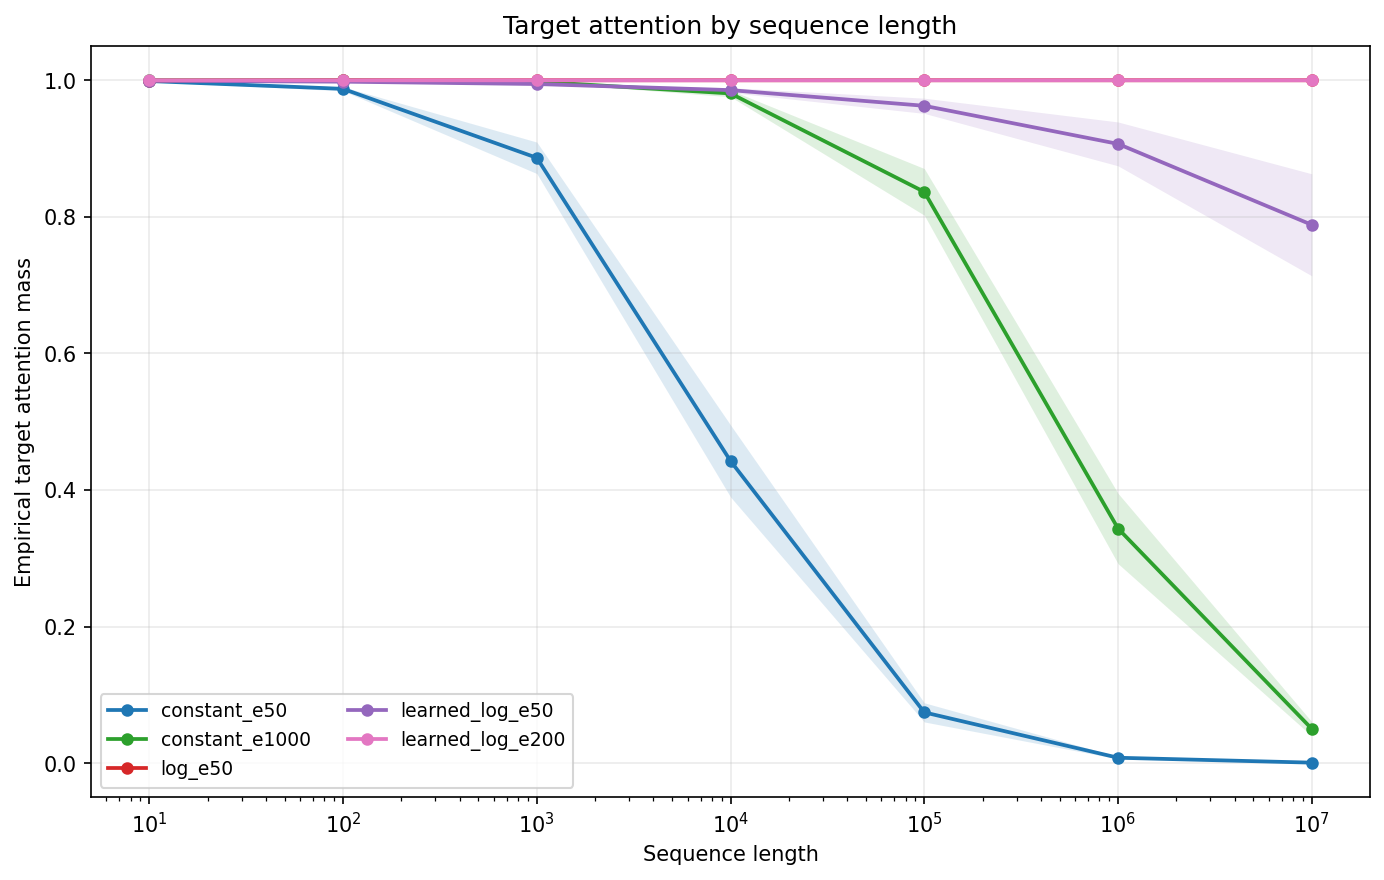
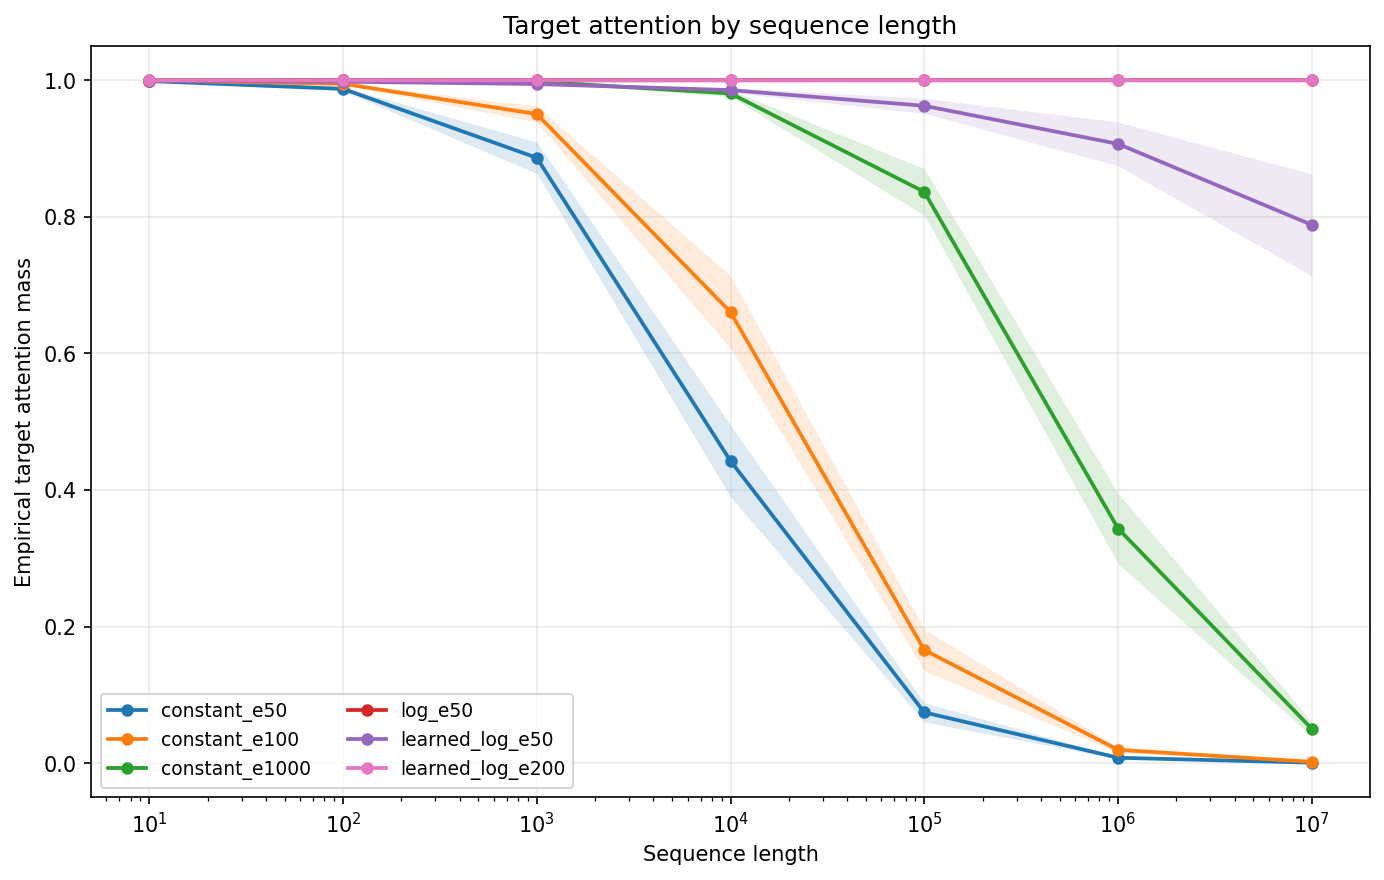
Edit results section

diff --git a/infinite_generalization/documents/FINAL_REPORT.md b/infinite_generalization/documents/FINAL_REPORT.md
@@ -351,12 +351,12 @@ figures below.
 
 ## Results
 
-Negative examples are classified correctly in every analyzed run and length. This is expected: a negative sequence contains only non-target values, so the attention output remains in the non-target direction regardless of how attention is distributed over positions. The length-generalization failure is therefore a positive-example failure: the target mass in positive examples can dilute until the classifier no longer detects the target.
+In this task, length generalization is decided entirely by the positive examples. A negative sequence contains only non-target values, so the attention output stays in the non-target direction however attention is spread across positions, and negatives are classified correctly in every analyzed run at every length. The difficulty lives in the positive examples: the target mass $p_t$ can dilute with length until the classifier no longer detects the target. Table 1 reports each run at $10^7$, and Figures 1 and 2 trace both quantities across length.
 
 **Table 1:** Main results at evaluation length $10^7$, as means over five seeds
-(± one standard deviation). The Target attention column is the target mass $p_t$.
+(± one standard deviation). Negative accuracy is 100% in every run.
 
-| Run | Steps | $\Delta$ | $c$ | $c\Delta$ | Target attention | Positive logit | Positive accuracy |
+| Run | Steps | $\Delta$ | $c$ | $c\Delta$ | $p_t$ | Positive logit | Positive accuracy |
 |---|---:|---:|---:|---:|---:|---:|---:|
 | `constant_e50` | 1600 | 9.0 ± 0.2 | n/a | n/a | 0.001 | -3.3 ± 0.1 | 0% |
 | `constant_e100` | 3200 | 9.9 ± 0.2 | n/a | n/a | 0.002 | -4.5 ± 0.1 | 0% |
@@ -370,25 +370,25 @@ Negative examples are classified correctly in every analyzed run and length. Thi
 
 
 ![Target attention by length](./figures/final_report_target_attention_by_length.png)
-**Figure 1:** Target attention mass versus sequence length for five representative runs (mean over five seeds; shaded bands ±1 s.d.).
+**Figure 1:** Target attention mass versus sequence length for six representative runs (mean over five seeds; shaded bands ±1 s.d.).
 
 
 ![Positive logit by length](./figures/final_report_positive_logit_by_length.png)
-**Figure 2:** Positive logit versus sequence length for the same five runs (mean over five seeds; shaded bands ±1 s.d.; dashed line marks the logit-0 decision boundary).
+**Figure 2:** Positive logit versus sequence length for the same six runs (mean over five seeds; shaded bands ±1 s.d.; dashed line marks the logit-0 decision boundary).
 
 ### Constant Scaling
 
-Constant scaling uses $\alpha=1$, for which Background already gives $p_t(n)\to0$ at any fixed $\Delta$. Empirically, more training increases $\Delta$, moving the failure point outward without changing this asymptotic regime: positive accuracy at $10^7$ is 0 for all three budgets in every seed. The e1000 run makes this concrete: it learns a much larger margin than e50 or e100 and keeps more target attention at $10^7$, but its positive logit is still negative there, so the theory predicts eventual failure for any finite fixed margin.
+Constant scaling uses $\alpha=1$. At any fixed $\Delta$ this gives $p_t(n)\to0$. Empirically, more training increases $\Delta$, moving the failure point outward without changing this asymptotic regime: positive accuracy at $10^7$ is 0 for all three budgets in every seed. The e1000 run makes this concrete: it learns a much larger margin than e50 or e100 and keeps more target attention at $10^7$, but its positive logit is still negative there, so the theory predicts eventual failure for any finite fixed margin.
 
 ### Log Scaling
 
-The log run uses $\alpha=\log n$. The learned margin is $\Delta=4.4\pm0.1$, comfortably above the threshold $\Delta>1$ in every seed, so the theory predicts $p_t(n)\to1$, which is what is observed: target attention reaches 1.000 at long lengths, the positive logit stays positive, and positive accuracy is 1 at $10^7$ in all five seeds.
+Log scaling uses $\alpha=\log n$. The learned margin is $\Delta=4.4\pm0.1$, comfortably above the threshold $\Delta>1$ in every seed, so the theory predicts $p_t(n)\to1$, which is what is observed: target attention reaches 1.000 at long lengths, the positive logit stays positive, and positive accuracy is 1 at $10^7$ in all five seeds.
 
 ### Learned Log Scaling
 
-The learned-log runs separate finite-length success from asymptotic success. At 50 and 100 epochs the model already passes the $10^7$ benchmark, with positive accuracy 1 in all five seeds, yet its exponent stays below the threshold, $c\Delta=0.58\pm0.03$ and $0.83\pm0.05$ respectively, so the theory predicts eventual failure at larger lengths. Solving the closed-form $p_t(n)$ for the length at which it drops to the classifier's decision threshold makes this concrete: across seeds, the 50-epoch runs ($c\Delta\approx0.58$) are predicted to fail near $n\sim10^{8}$–$10^{9}$, only one to two orders of magnitude past the benchmark. The 100-epoch runs ($c\Delta\approx0.83$) are pushed beyond $n\sim10^{18}$, the failure length climbing steeply as $c\Delta\to1$. Only at 200 epochs does $c\Delta$ cross 1 ($1.14\pm0.06$, above 1 in all five seeds), entering the asymptotic-success regime; by 400 epochs it is well clear ($1.55\pm0.08$). The crossing is driven by the coefficient $c$, which grows monotonically with the training budget ($0.072\to0.096\to0.126\to0.166$) while the raw margin $\Delta$ grows only modestly ($8.1\to9.4$).
+Learned-log scaling uses $\alpha=1+c\log(1+n)$. These runs separate finite-length success from asymptotic success. At 50 and 100 epochs the model already passes the $10^7$ benchmark, with positive accuracy 1 in all five seeds, yet its exponent stays below the threshold, $c\Delta=0.58\pm0.03$ and $0.83\pm0.05$ respectively, so the theory predicts eventual failure at larger lengths. Solving the closed-form $p_t(n)$ for the length at which it drops to the classifier's decision threshold makes this concrete: across seeds, the 50-epoch runs ($c\Delta\approx0.58$) are predicted to fail near $n\sim10^{8}$–$10^{9}$, only one to two orders of magnitude past the benchmark. The 100-epoch runs ($c\Delta\approx0.83$) are pushed beyond $n\sim10^{18}$, the failure length climbing steeply as $c\Delta\to1$. Only at 200 epochs does $c\Delta$ exceed 1 in every seed ($1.14\pm0.06$), entering the asymptotic-success regime; by 400 epochs it is well clear ($1.55\pm0.08$). The crossing is driven by the coefficient $c$, which grows monotonically with the training budget ($0.072\to0.096\to0.126\to0.166$) while the raw margin $\Delta$ grows only modestly ($8.1\to9.4$).
 
-This is one of the main lessons of the experiment. Passing a finite benchmark such as $10^7$ does not certify unbounded-length generalization: two of our budgets clear $10^7$ with $c\Delta<1$. The reliable diagnostic is therefore whether $c\Delta$ exceeds 1, not accuracy at any single large length.
+The e50 and e100 budgets reach 100% at $10^7$ with $c\Delta<1$: a passing score at one length does not imply generalization to all lengths. What transfers is the threshold $c\Delta>1$, not accuracy at any single length.
 
 ## Mechanism: What The Model Learns
 